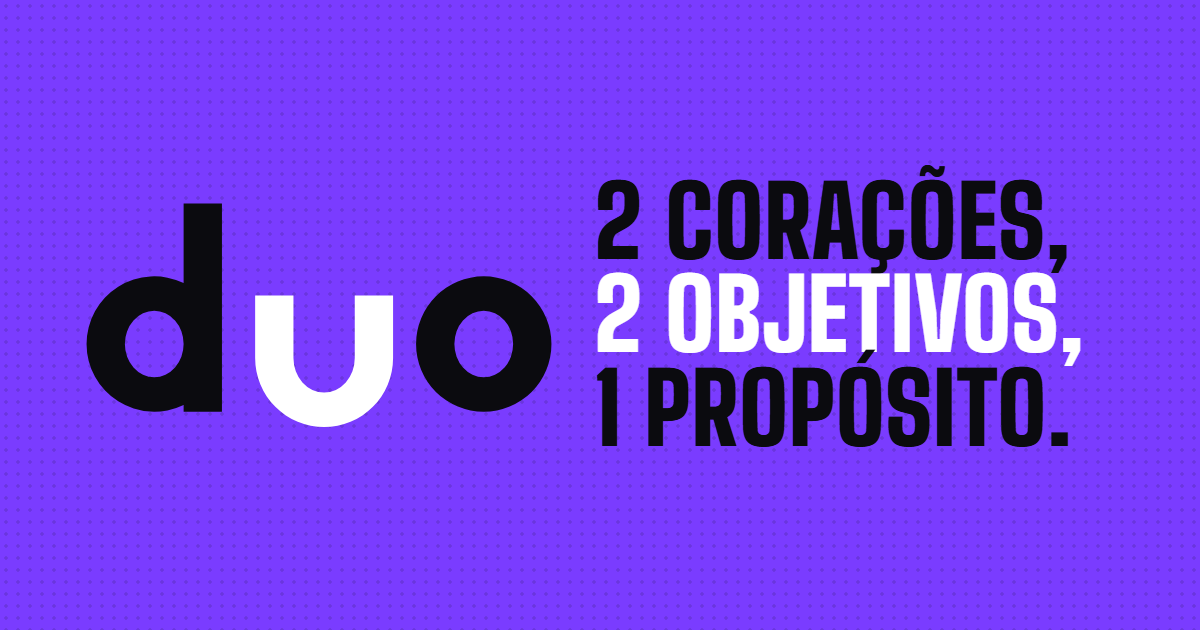
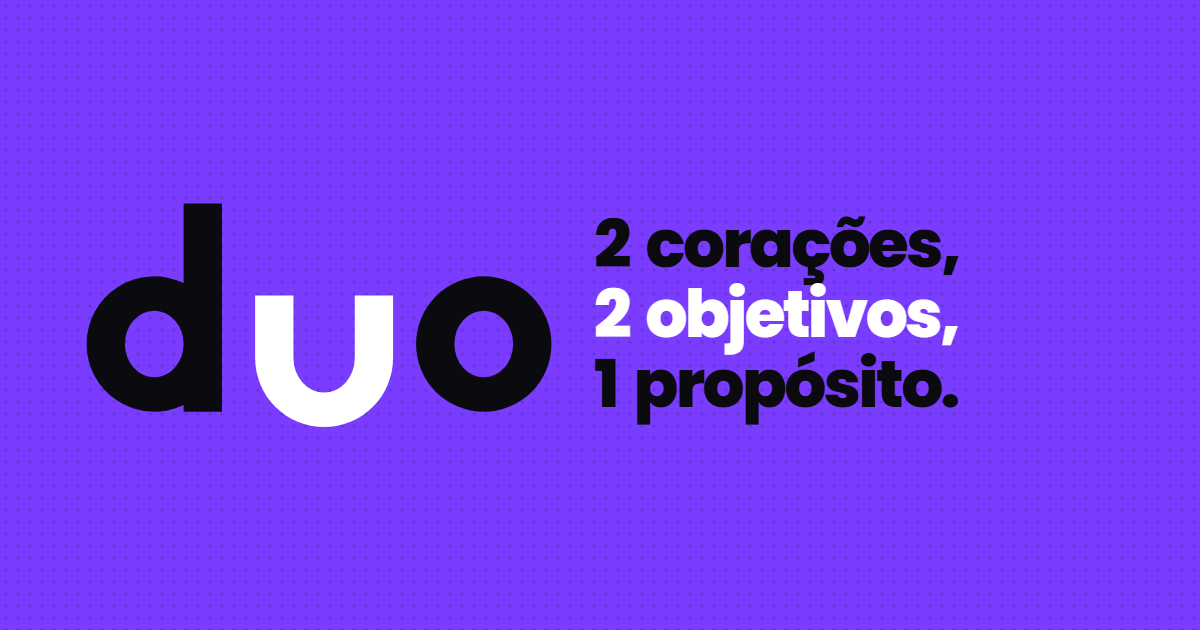
Imagem de compartilhamento na fonte do site (Poppins)
tools/og.html ainda usava a fonte condensada antiga; agora usa Poppins 800
como o resto do site, e public/og.png foi gerado de novo.

Changed region(s): [[0.4933, 0.2413, 0.925, 0.7238]]

diff --git a/tools/og.html b/tools/og.html
@@ -4,9 +4,9 @@
 <title>og</title>
 <style>
   @font-face {
-    font-family: 'BSD';
-    font-weight: 100 900;
-    src: url('../node_modules/@fontsource-variable/big-shoulders-display/files/big-shoulders-display-latin-wght-normal.woff2') format('woff2');
+    font-family: 'Poppins';
+    font-weight: 800;
+    src: url('../node_modules/@fontsource/poppins/files/poppins-latin-800-normal.woff2') format('woff2');
   }
   * { box-sizing: border-box; margin: 0; }
   html, body { width: 1200px; height: 630px; overflow: hidden; }
@@ -22,13 +22,13 @@
   }
   .logo { width: 100%; height: auto; }
   h1 {
-    font: 900 98px/0.95 'BSD', 'Arial Narrow', sans-serif;
-    letter-spacing: 0.01em;
-    text-transform: uppercase;
+    font: 800 66px/1.06 'Poppins', system-ui, sans-serif;
+    letter-spacing: -0.04em;
+    word-spacing: 0.1em;
     color: #0b0b0f;
+    white-space: nowrap;
   }
-  h1 { white-space: nowrap; }
-  h1 b { display: block; color: #fff; font-weight: 900; }
+  h1 b { display: block; color: #fff; font-weight: 800; }
 </style>
 <body>
   <svg class="logo" viewBox="42 38 368 179" role="img" aria-label="DUO">
